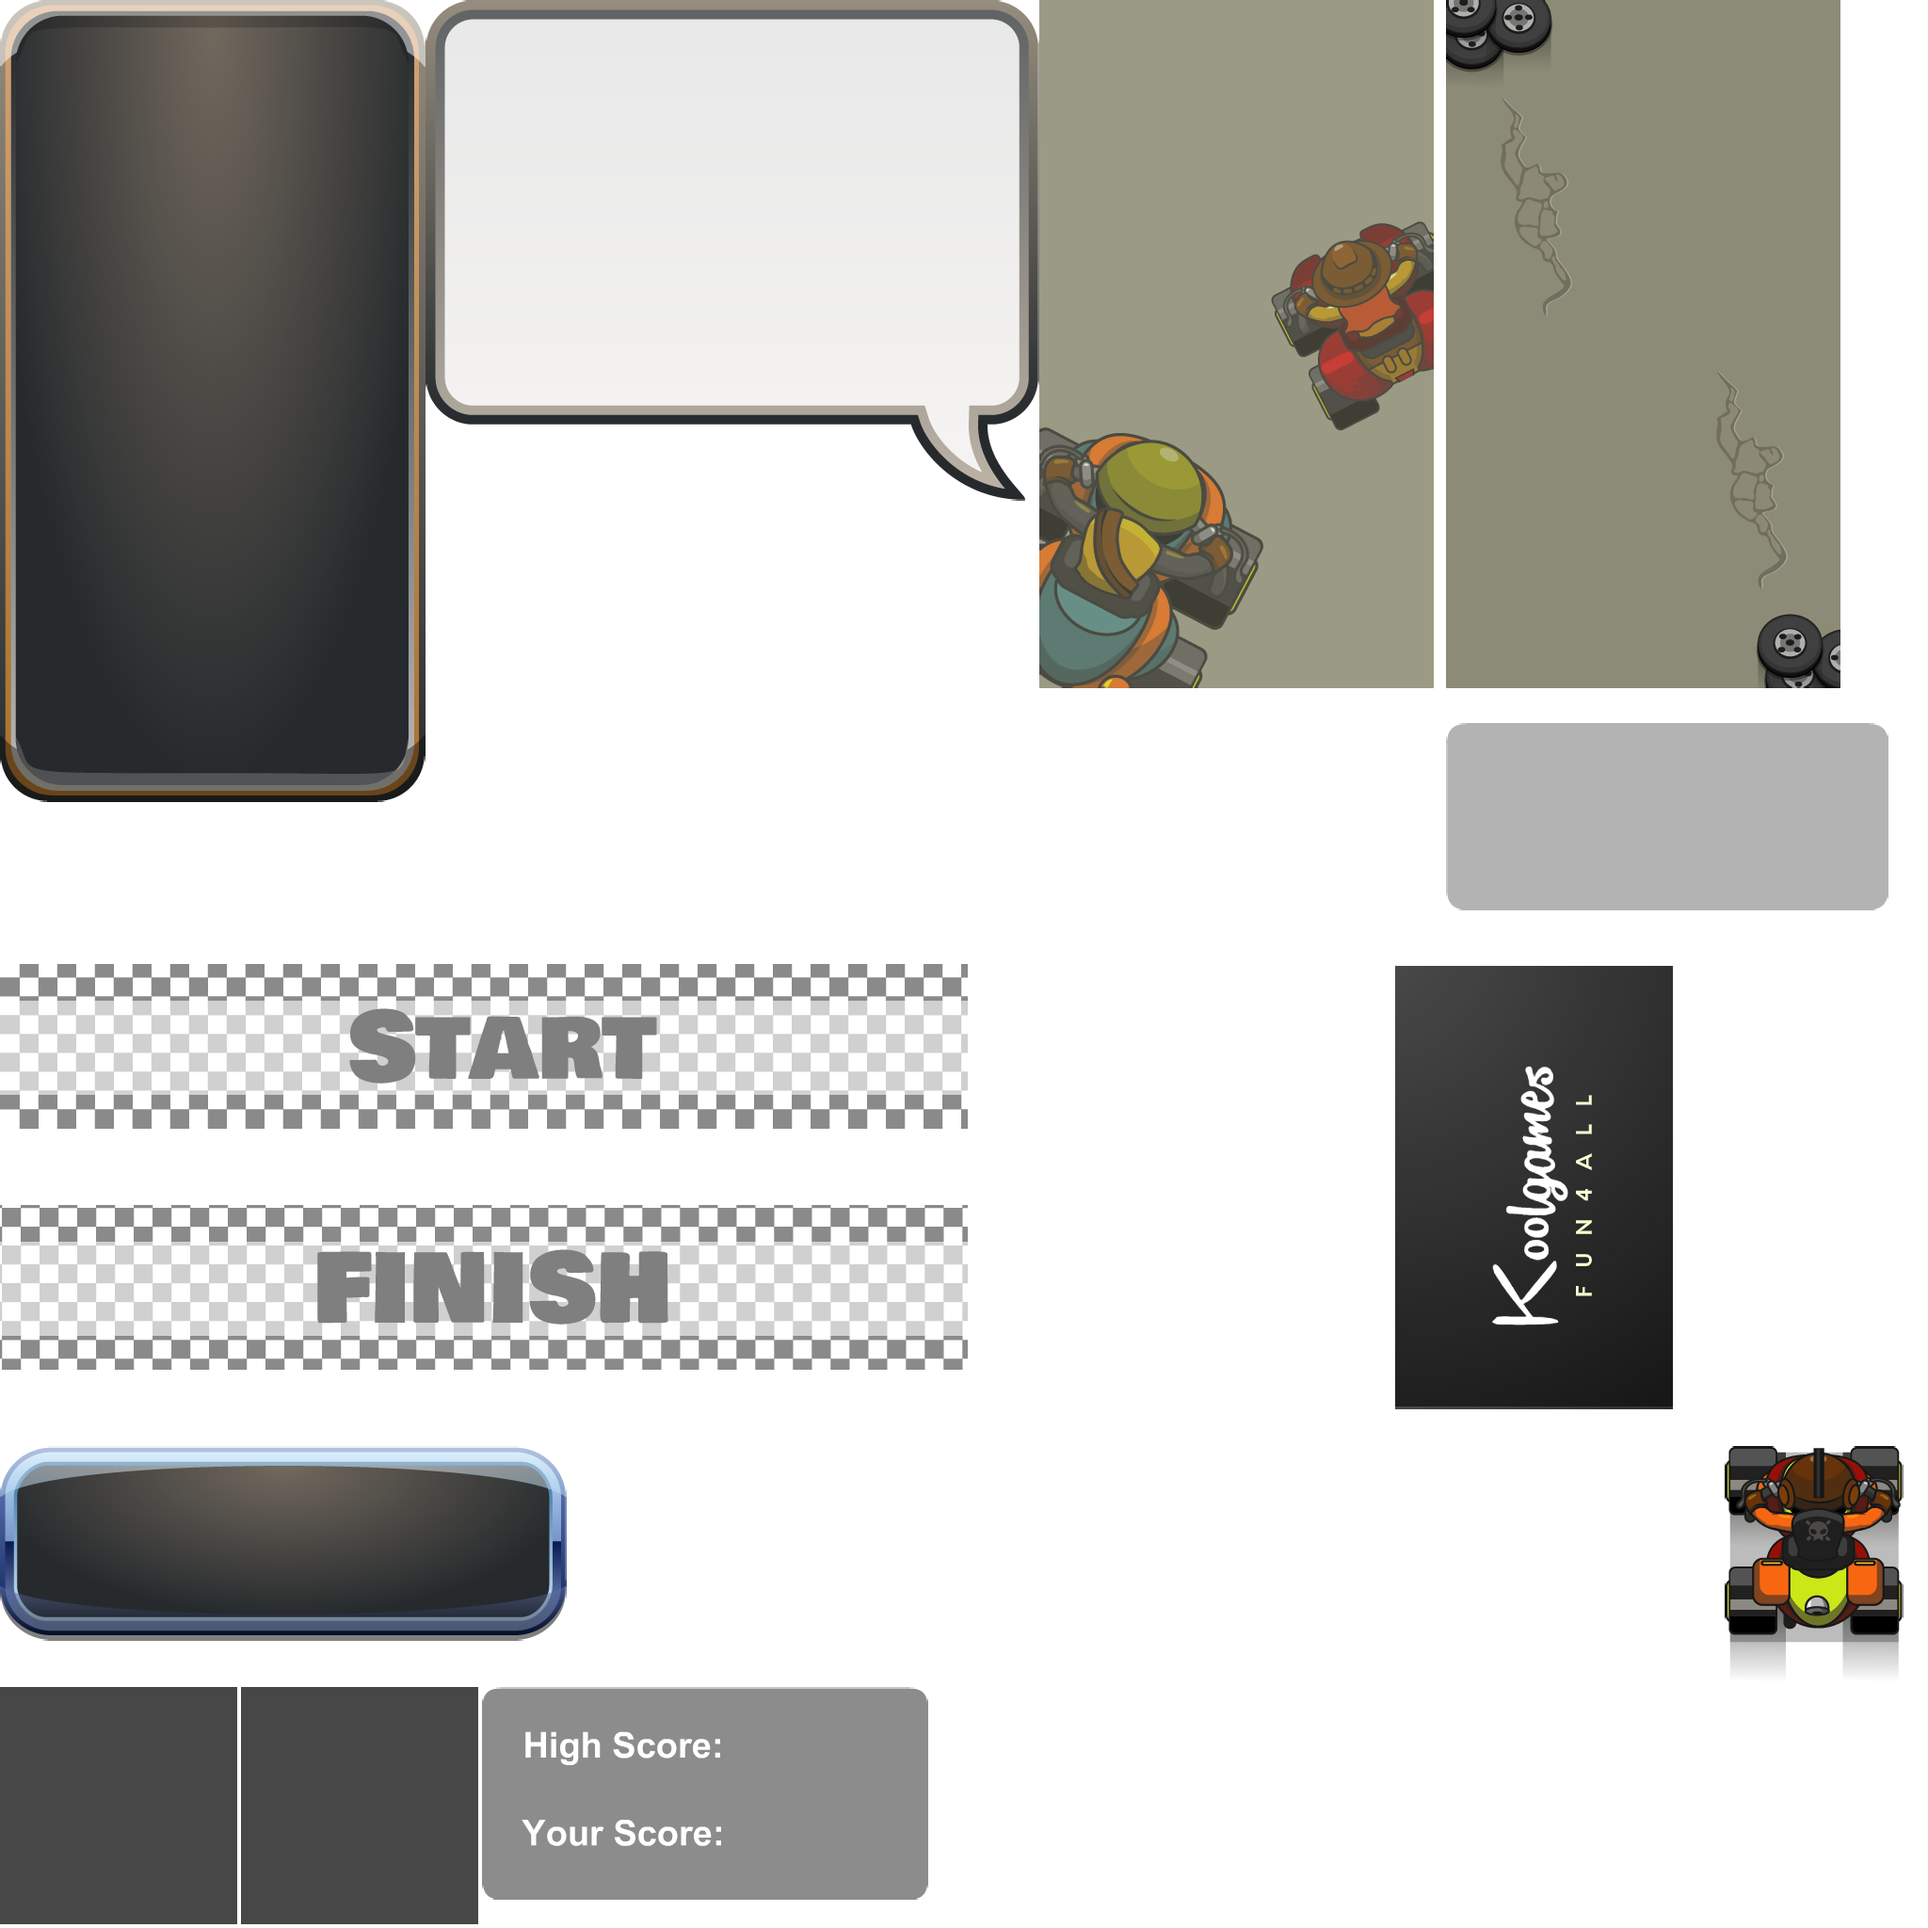
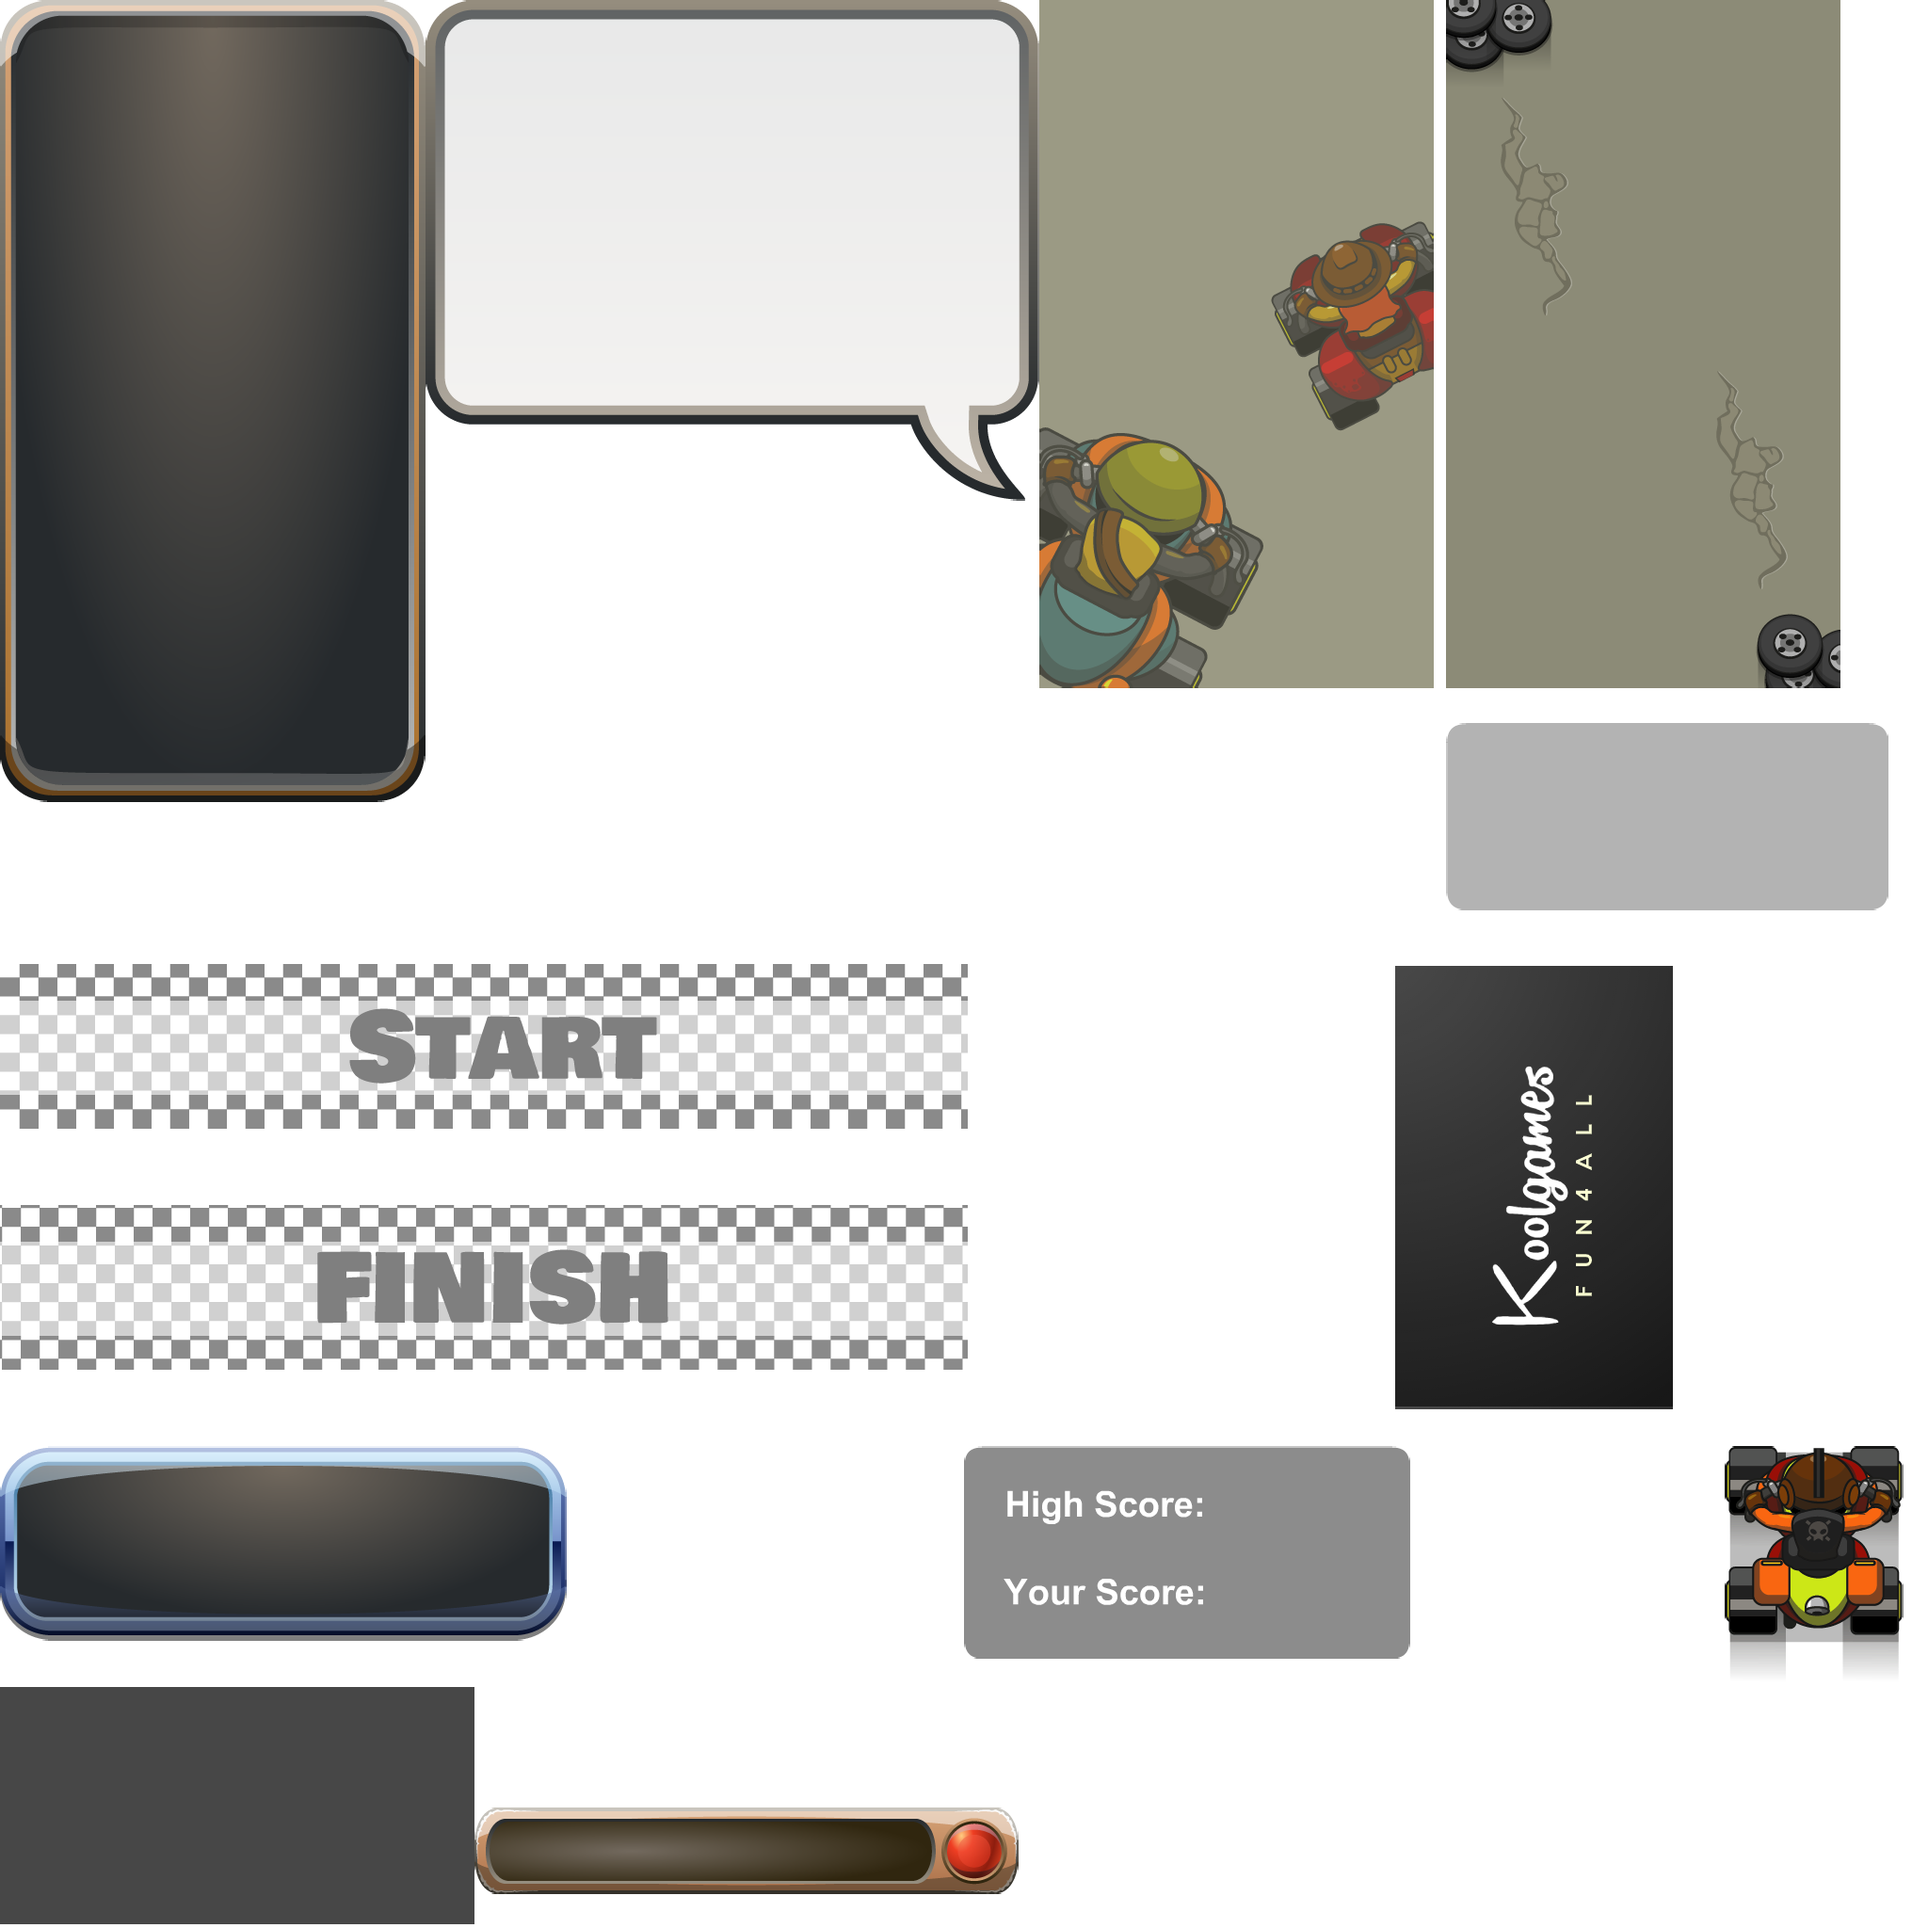
Add files via upload

Changed region(s): [[0.25, 0.875, 0.5312, 1.0], [0.5, 0.75, 0.75, 0.875]]

diff --git a/scripts/c3runtime.js b/scripts/c3runtime.js
@@ -3319,6 +3319,11 @@ const i=VALID_MOVEMENTS.indexOf(m);if(i===-1)throw new Error("invalid movement")
 		C3.Plugins.Sprite.Acts.SetAngle,
 		C3.Plugins.System.Cnds.TriggerOnce,
 		C3.Plugins.Sprite.Acts.StartAnim,
+		C3.Plugins.Touch.Cnds.IsTouchingObject,
+		C3.Plugins.Sprite.Acts.SetOpacity,
+		C3.Plugins.Sprite.Acts.SubInstanceVar,
+		C3.Plugins.Sprite.Cnds.IsOutsideLayout,
+		C3.Plugins.Sprite.Acts.AddInstanceVar,
 		C3.Plugins.Audio.Cnds.IsSilent,
 		C3.Plugins.Audio.Acts.UnloadAudio,
 		C3.Plugins.System.Cnds.OnLayoutEnd,
@@ -3396,6 +3401,7 @@ const i=VALID_MOVEMENTS.indexOf(m);if(i===-1)throw new Error("invalid movement")
 		{Sprite23: 0},
 		{Sprite24: 0},
 		{Sprite25: 0},
+		{bulletg: 0},
 		{Riders_N: 0},
 		{Table_: 0},
 		{Table_2: 0},
@@ -3414,6 +3420,8 @@ const i=VALID_MOVEMENTS.indexOf(m);if(i===-1)throw new Error("invalid movement")
 		{bulletftue: 0},
 		{Dot: 0},
 		{Dot_BG: 0},
+		{Nitro_BG: 0},
+		{Nitro_Bar: 0},
 		{crash: 0},
 		{speed: 0},
 		{rndline: 0},
@@ -3778,6 +3786,8 @@ const i=VALID_MOVEMENTS.indexOf(m);if(i===-1)throw new Error("invalid movement")
 		() => 675,
 		() => 0.5,
 		() => 270,
+		() => "Fire",
+		() => 100,
 		() => "BackMainJavaClass.myBack();",
 		() => 580,
 		() => 1.1
